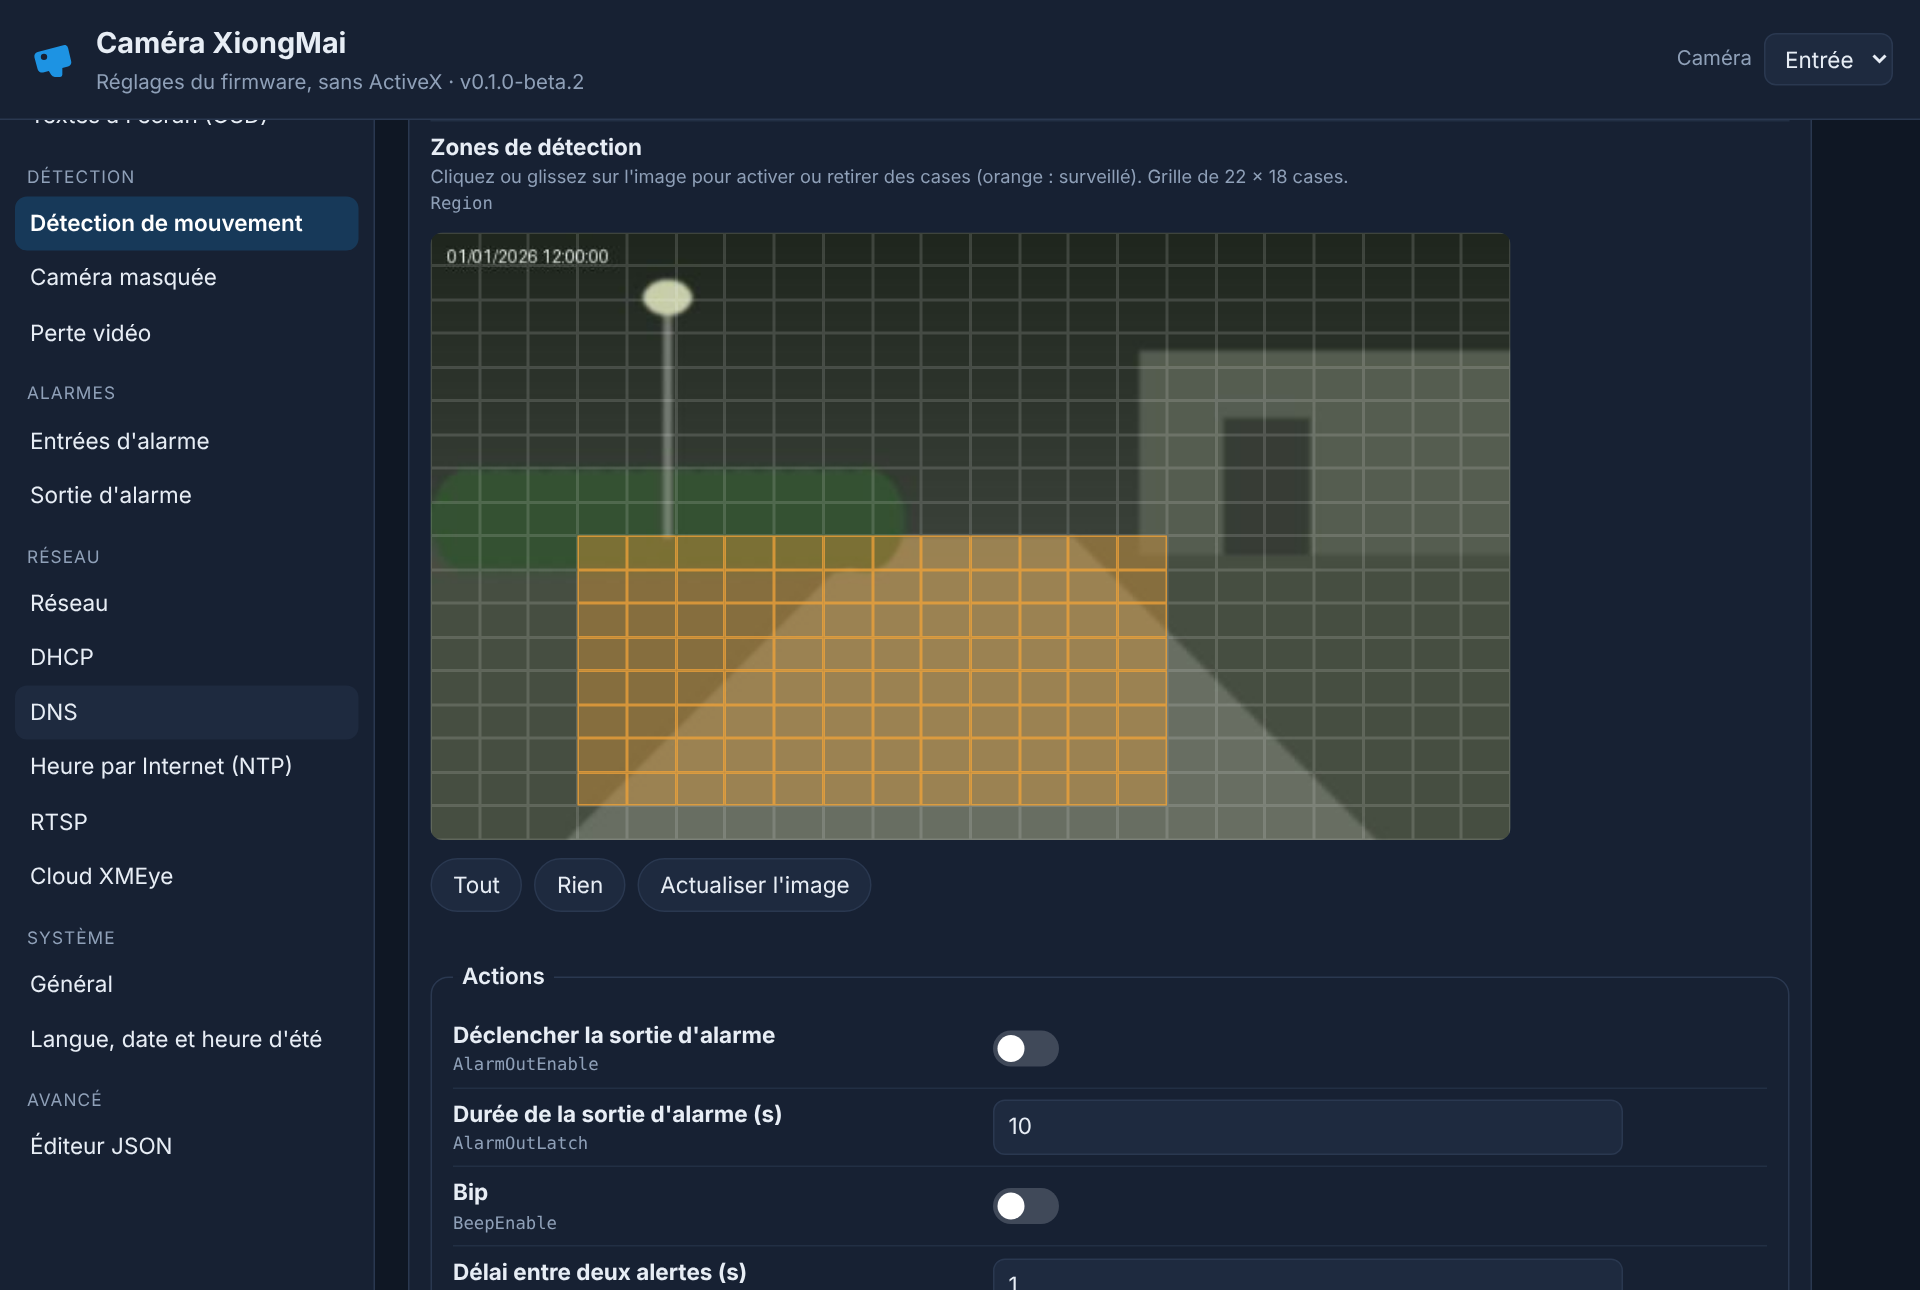
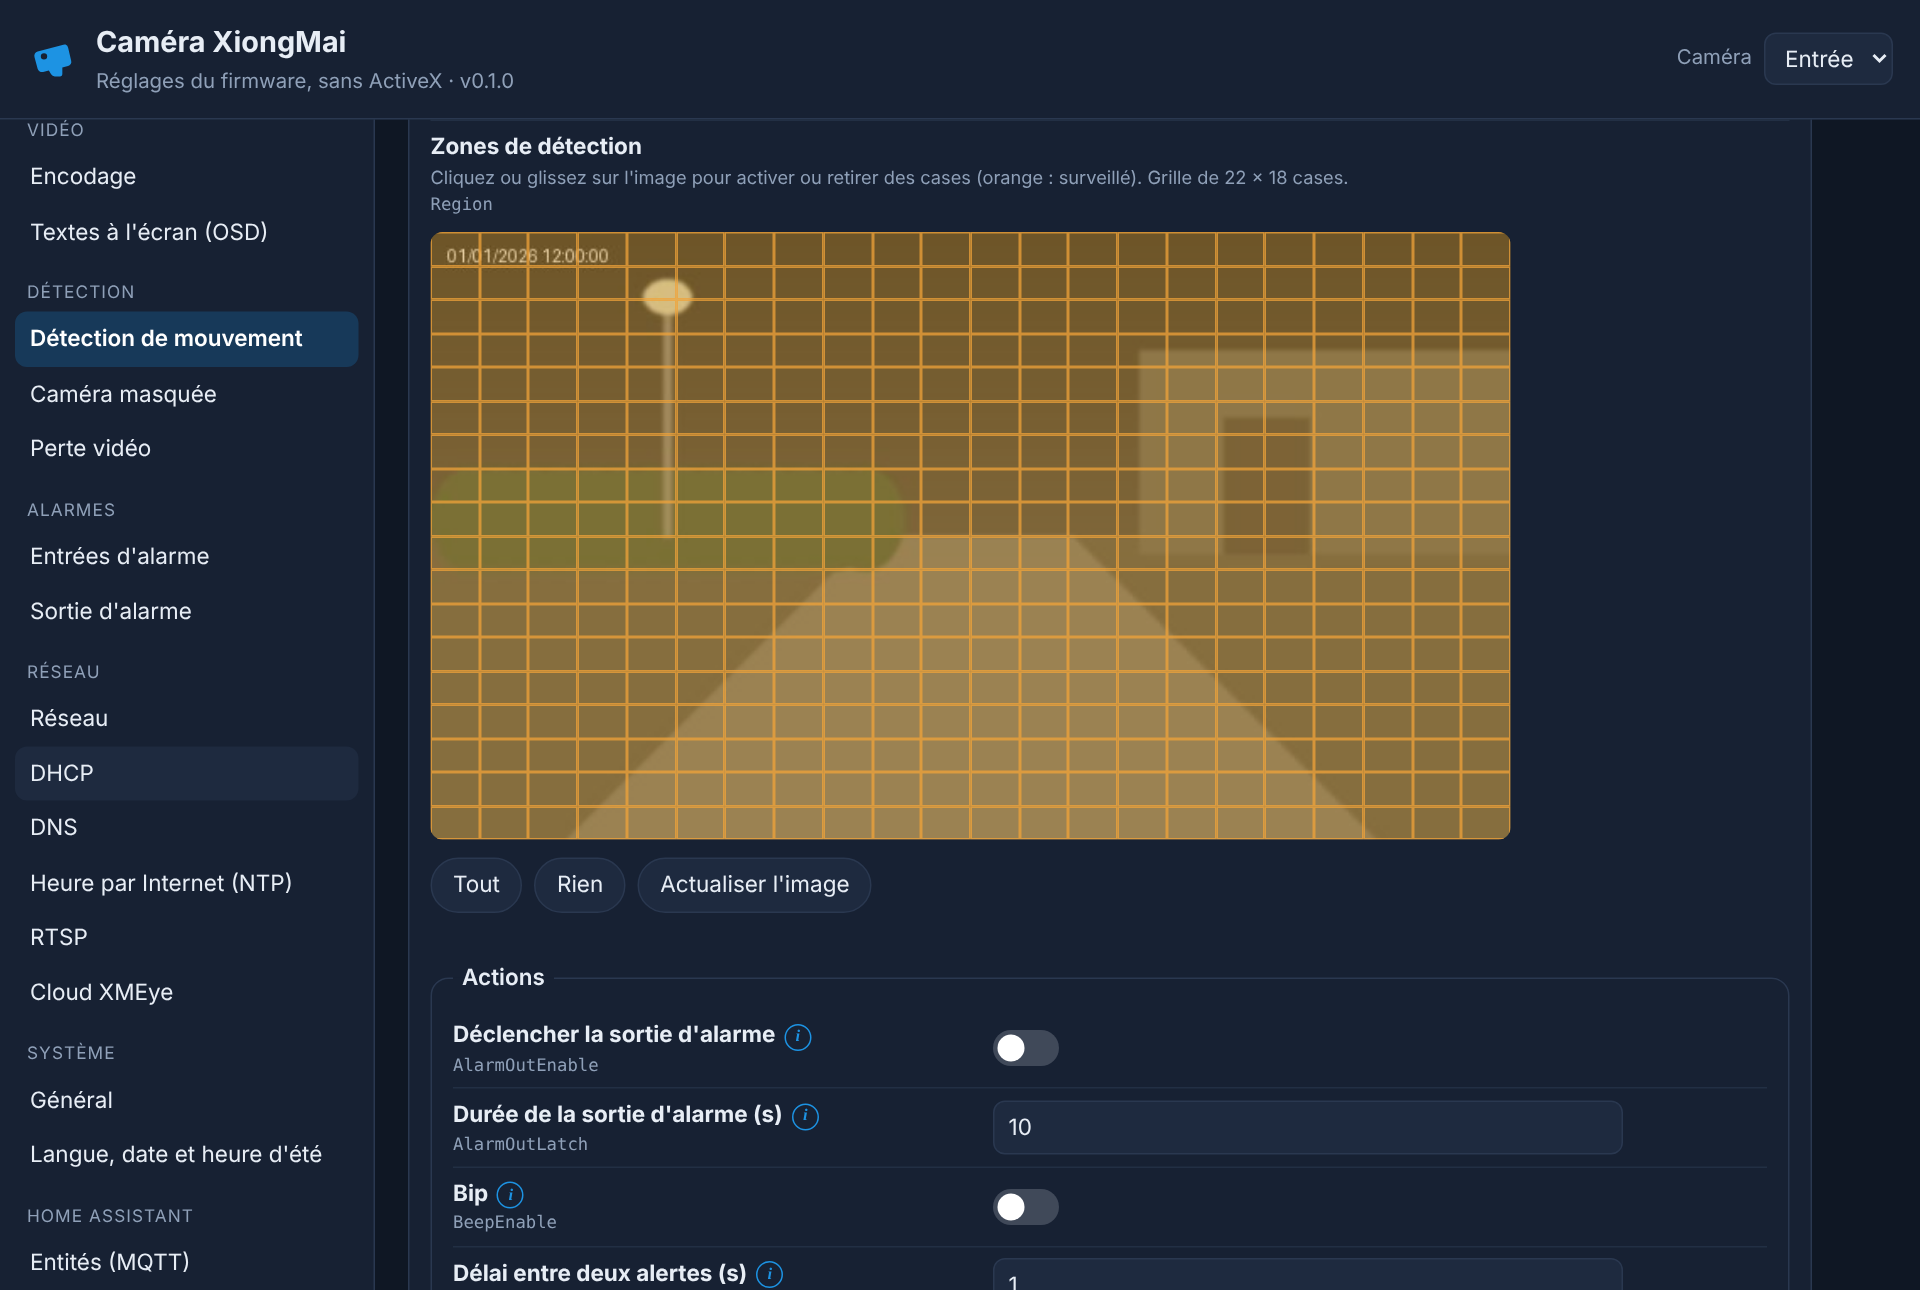
feat: version stable 0.1.0
Première version stable de l'application Caméra XiongMai : passage hors
du stade expérimental, README et captures mis à jour (caméra simulée,
valeurs fictives), journal des changements récapitulatif.

Claude-Session: https://claude.ai/code/session_01CSixJnFf4qBMac7uTfNvnW

diff --git a/xiongmai_camera/app/server.py b/xiongmai_camera/app/server.py
@@ -25,7 +25,7 @@ from urllib.parse import parse_qs, quote, unquote, urlsplit
 from dvrip import DvripClient, DvripError, sofia_hash
 from ha_mqtt import MqttBridge
 
-VERSION = "0.1.0-beta.23"
+VERSION = "0.1.0"
 DATA = Path(os.environ.get("XM_DATA", "/data"))
 STATIC = Path(__file__).parent / "static"
 INGRESS_IP = "172.30.32.2"

diff --git a/README.md b/README.md
@@ -34,23 +34,28 @@
 
 Ces caméras se règlent d'habitude avec l'interface « NetSurveillance WEB », qui exige un ActiveX et Internet Explorer, de plus en plus difficile à installer sur les Windows récents, ou avec le logiciel CMS. Cette application parle directement à la caméra avec son propre protocole (DVRIP, port 34567) et affiche ses réglages en français.
 
-| Infos et actions | Image | Zones de détection |
+| Infos et actions | Réglages avec info-bulles | Zones de détection |
 | --- | --- | --- |
-| <img src="https://raw.githubusercontent.com/Marlboro62/xiongmai-camera/main/images/infos.png" alt="Infos et actions" width="300"> | <img src="https://raw.githubusercontent.com/Marlboro62/xiongmai-camera/main/images/image.png" alt="Réglages de l'image" width="300"> | <img src="https://raw.githubusercontent.com/Marlboro62/xiongmai-camera/main/images/detection.png" alt="Zones de détection de mouvement" width="300"> |
+| <img src="https://raw.githubusercontent.com/Marlboro62/xiongmai-camera/main/images/infos.png" alt="Infos et actions" width="300"> | <img src="https://raw.githubusercontent.com/Marlboro62/xiongmai-camera/main/images/image.png" alt="Réglages de l'image avec info-bulle" width="300"> | <img src="https://raw.githubusercontent.com/Marlboro62/xiongmai-camera/main/images/detection.png" alt="Zones de détection sur l'image" width="300"> |
+
+| Flux et accès | Entités Home Assistant (MQTT) |
+| --- | --- |
+| <img src="https://raw.githubusercontent.com/Marlboro62/xiongmai-camera/main/images/acces.png" alt="Flux RTSP, ONVIF et HTTP" width="450"> | <img src="https://raw.githubusercontent.com/Marlboro62/xiongmai-camera/main/images/mqtt.png" alt="Réglages MQTT" width="450"> |
 
 *Captures réalisées avec la caméra simulée fournie dans le dépôt : valeurs fictives.*
 
 ## Ce qu'elle permet
 
-- **Image** : mode jour / nuit, filtre infrarouge, exposition, gain, contre-jour, image miroir et retournée, couleurs (luminosité, contraste, saturation…).
-- **Vidéo** : encodage des flux principal et secondaire (codec, résolution, images par seconde, débit), textes à l'écran (nom, heure).
-- **Détection** : détection de mouvement avec **grille des zones** à dessiner sur l'image de la caméra, sensibilité et actions ; caméra masquée, perte vidéo.
-- **Alarmes** : entrées et sortie d'alarme.
-- **Réseau** : adresse IP (affichée en clair, pas en hexadécimal), DNS, DHCP, NTP, RTSP, **cloud XMEye** (à couper si la caméra n'a pas Internet).
-- **Système** : nom, langue, format de date, heure d'été ; **mise à l'heure** sur celle de Home Assistant ; **redémarrage** (confirmé par un second clic).
-- **Éditeur JSON** pour tous les autres réglages du firmware.
-- **Sauvegarde automatique** de chaque section avant de l'écrire (les 30 dernières), et retour à une sauvegarde en deux clics ; **export** de toute la configuration en un fichier.
-- **Plusieurs caméras**, choisies en haut de la page.
+- **Tous les réglages en français** et en clair : listes, interrupteurs, heures, pourcentages au lieu des codes `0x…` du firmware, et une **info-bulle « i »** avec un exemple pour près de 100 réglages.
+- **Image** : mode jour / nuit, filtre infrarouge, exposition (en millisecondes), gain, contre-jour, obturateur lent, miroir et retournement, couleurs selon l'heure.
+- **Vidéo** : encodage des flux principal et secondaire ; textes à l'écran (couleur, position en %, zones masquées).
+- **Détection** : détection de mouvement avec la **grille des zones posée sur l'image de la caméra**, sensibilité, plages horaires du lundi au dimanche, actions ; caméra masquée, perte vidéo.
+- **Réseau** : adresse IP en clair, DNS, DHCP, NTP, RTSP, **cloud XMEye** (à couper si la caméra n'a pas Internet).
+- **Système** : langue, format de date, **heure d'été comme NetSurveillance** (« le dernier dimanche de mars à 2 h ») ; **mise à l'heure** sur celle de Home Assistant ; **redémarrage**.
+- **Flux et accès** : aperçu en direct, adresses **RTSP** prêtes à copier, test **ONVIF** et **HTTP**.
+- **Entités Home Assistant par MQTT** : détection, sensibilité, mode jour / nuit, miroir, cloud, redémarrage, mise à l'heure, connexion, temps de fonctionnement, pour les tableaux de bord et les automatisations. Broker réglé dans la page de l'application, ou application Mosquitto trouvée toute seule.
+- **Sauvegarde automatique** de chaque section avant de l'écrire, retour en arrière en deux clics, **export** de toute la configuration ; **relecture** après chaque écriture pour signaler une valeur ignorée par la caméra.
+- **Éditeur JSON** pour tout le reste, et **plusieurs caméras**.
 
 La page est accessible seulement depuis Home Assistant (barre latérale), par un utilisateur connecté. L'application ne parle qu'aux caméras de votre réseau local : la caméra peut rester **sans accès à Internet**.
 
@@ -68,6 +73,7 @@ La page est accessible seulement depuis Home Assistant (barre latérale), par un
        password: ""
    ```
 4. Démarrez l'application, puis ouvrez **Caméra XiongMai** dans la barre latérale.
+5. Facultatif : **Home Assistant › Entités (MQTT)** pour créer l'appareil dans Home Assistant, et **Flux et accès** pour la vidéo (intégration ONVIF ou caméra générique).
 
 Détails : [documentation](xiongmai_camera/DOCS.md).
 
@@ -76,7 +82,7 @@ Détails : [documentation](xiongmai_camera/DOCS.md).
 - Commencez par **Infos et actions › Exporter toute la configuration** pour garder une copie de vos réglages.
 - Les réglages **Réseau** (adresse, ports, DHCP) peuvent rendre la caméra injoignable s'ils sont faux : la page demande une confirmation.
 - La **mise à jour du firmware** n'est volontairement pas proposée : c'est la seule opération qui peut rendre une caméra inutilisable.
-- Les firmwares XiongMai diffèrent d'un modèle à l'autre : un réglage absent de votre caméra affiche « Lecture impossible ». Testé avec un firmware V4.02 (NetSurveillance WEB) ; vos retours sur d'autres modèles sont les bienvenus.
+- Les firmwares XiongMai diffèrent d'un modèle à l'autre : un réglage absent de votre caméra affiche « Lecture impossible ». Testé avec une caméra au firmware V4.02 (NetSurveillance WEB, 2017) ; vos retours sur d'autres modèles sont les bienvenus. Le bouton **Infos et actions › Lister les réglages sans nom français** donne la liste des réglages à traduire pour votre modèle.
 
 ## Signaler un problème
 

diff --git a/xiongmai_camera/CHANGELOG.md b/xiongmai_camera/CHANGELOG.md
@@ -1,5 +1,13 @@
 # Changements
 
+## 0.1.0 (première version stable)
+
+Réglage complet des caméras XiongMai / XMEye / NetSurveillance depuis Home Assistant, sans ActiveX ni Internet Explorer.
+
+- **Nouveautés** : tous les réglages en français et en clair, avec info-bulles et exemples ; grille de détection posée sur l'image de la caméra ; plages horaires et heure d'été comme NetSurveillance ; page **Flux et accès** (aperçu, RTSP, ONVIF, HTTP) ; **entités Home Assistant par MQTT** réglées dans la page de l'application ; sauvegarde avant chaque écriture, export, relecture après écriture.
+- **Corrections pendant les bêtas** : interrupteurs qui ne réagissaient pas au clic, heure UTC envoyée à la caméra, rouge et bleu inversés dans les couleurs des textes, accès à Home Assistant (jeton du Supervisor) perdu au démarrage, entités MQTT indisponibles.
+- Testée sur une caméra au firmware V4.02 (2017). Le détail de chaque bêta suit.
+
 ## 0.1.0-beta.23
 
 - Correction : entités MQTT « Indisponible » dans Home Assistant. Leur disponibilité dépendait aussi d'un sujet global absent sur certains brokers ; elle ne dépend plus que du sujet de la caméra (`xiongmai_camera/<caméra>/availability`). Déconnexion propre du broker à l'arrêt.
